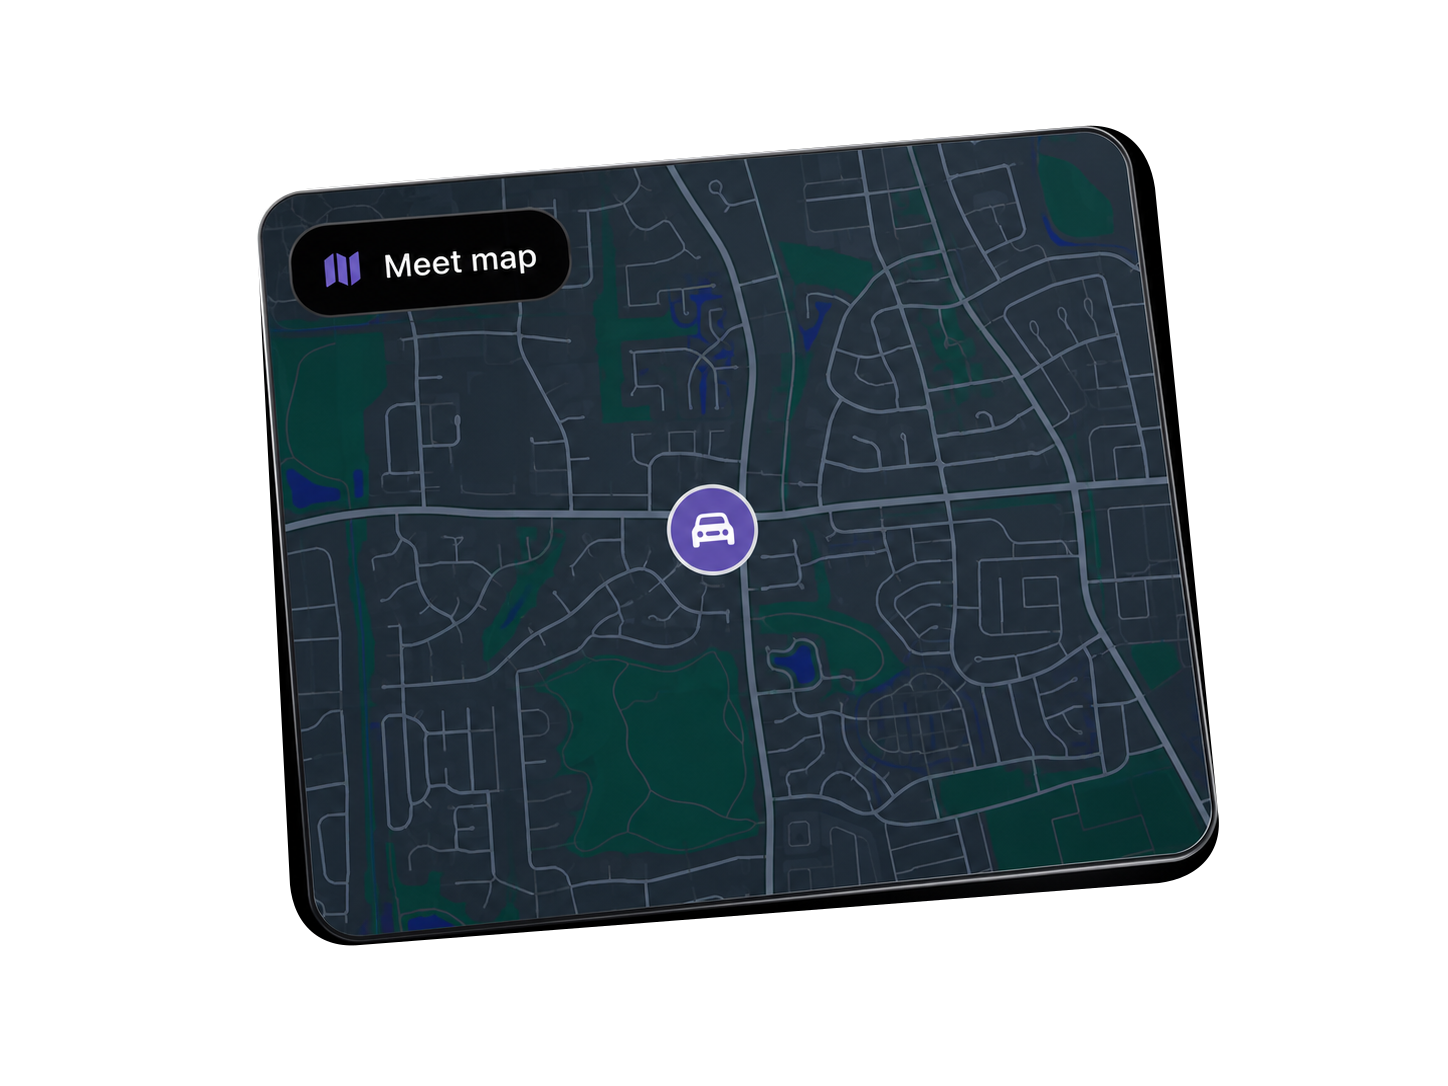
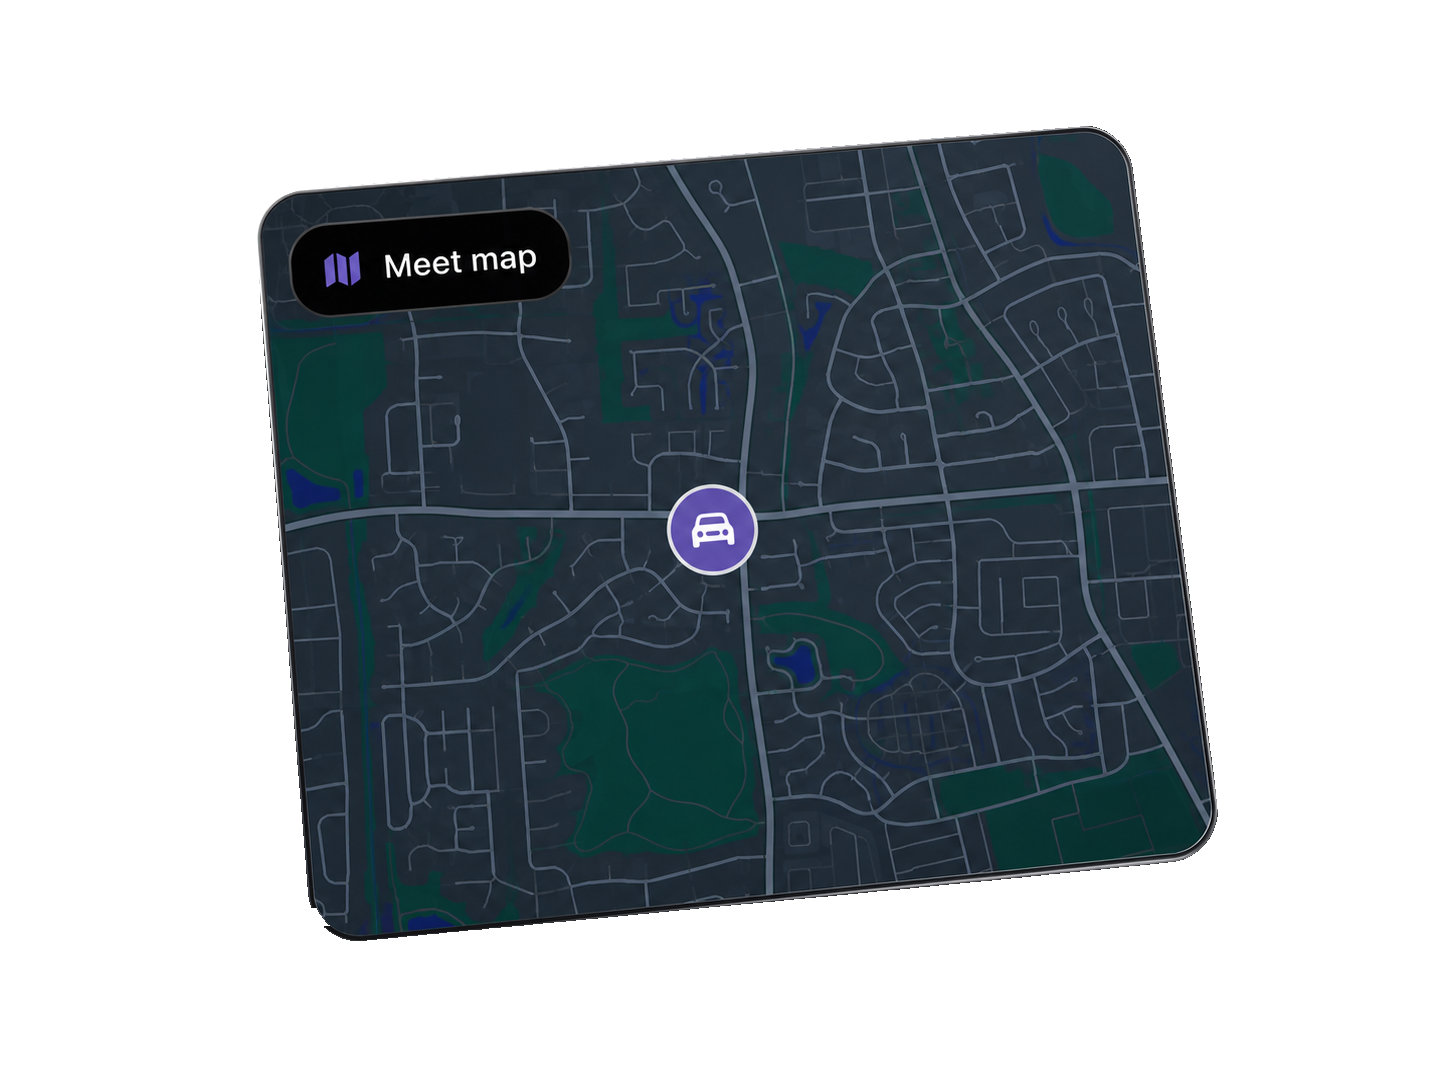
Polish homepage product showcase

diff --git a/index.html b/index.html
@@ -22,7 +22,7 @@
     <meta name="twitter:title" content="Idle | Car meets, finally organized.">
     <meta name="twitter:description" content="Discover meets. Host meets. Build your garage. Message connections. Stay connected to the local scene.">
     <meta name="twitter:image" content="https://idlemeets.com/assets/idle-social-preview-20260513a.png">
-    <script type="application/ld+json">
+    <script id="idle-app-schema" type="application/ld+json">
       {
         "@context": "https://schema.org",
         "@graph": [
@@ -84,7 +84,7 @@
             "aggregateRating": {
               "@type": "AggregateRating",
               "ratingValue": "5.0",
-              "ratingCount": 10,
+              "ratingCount": 12,
               "bestRating": "5",
               "worstRating": "1"
             }
@@ -132,20 +132,24 @@
         <div class="product-stage" data-product-stage data-active-card="meet" aria-label="Interactive previews of Idle's meet, map, and garage experience">
           <div class="product-stage-glow" aria-hidden="true"></div>
           <button class="product-fragment product-fragment-map" type="button" data-product-fragment data-product-card="map" data-card-label="Meet map" data-depth="0.52" aria-label="Show the Meet map preview" aria-pressed="false">
-            <img src="assets/product-showcase/idle-meet-map-demo.png?v=20260710c" alt="" width="1448" height="1086" decoding="async">
+            <img src="assets/product-showcase/idle-meet-map-demo.png?v=20260710e" alt="" width="1448" height="1086" decoding="async">
           </button>
           <button class="product-fragment product-fragment-meet" type="button" data-product-fragment data-product-card="meet" data-card-label="Night Meet" data-depth="1" aria-label="Show the Night Meet preview" aria-pressed="true">
             <img src="assets/product-showcase/idle-meet-card-demo.png?v=20260710c" alt="" width="1536" height="1024" fetchpriority="high" decoding="async">
           </button>
           <button class="product-fragment product-fragment-profile" type="button" data-product-fragment data-product-card="profile" data-card-label="Garage profile" data-depth="0.78" aria-label="Show the garage profile preview" aria-pressed="false">
-            <img src="assets/product-showcase/idle-profile-demo.png?v=20260710c" alt="" width="1748" height="900" decoding="async">
+            <img src="assets/product-showcase/idle-profile-demo-black-badge.png?v=20260710a" alt="" width="1748" height="900" decoding="async">
           </button>
           <p class="sr-only" data-product-status aria-live="polite">Night Meet preview selected.</p>
         </div>
       </section>
 
       <section class="site-shell home-proof-band" aria-label="Idle app details" data-reveal>
-        <p class="rating-note">Rated 5.0 on the App Store from 10 ratings.</p>
+        <p class="rating-note" data-rating-summary>
+          Rated <span data-rating-value>5.0</span> on the App Store from
+          <span data-rating-count>12</span> <span data-rating-noun>ratings</span>.
+          <span class="sr-only" aria-live="polite" data-rating-status></span>
+        </p>
         <p class="hero-note">Built for iPhone. Designed for meets, garages, groups, messages, and real local connections. Looking to <a class="contact-link" href="car-meets/">find car meets</a> or compare a <a class="contact-link" href="car-meet-app/">car meet app</a>? See how Idle works.</p>
       </section>
 
@@ -169,7 +173,7 @@
             <div class="discover-stage" data-discover-stage aria-label="Idle meet map and Night Meet previews">
               <div class="discover-stage-glow" aria-hidden="true"></div>
               <div class="discover-fragment discover-fragment-map" data-discover-fragment data-depth="0.55" aria-hidden="true">
-                <img src="assets/product-showcase/idle-meet-map-demo.png?v=20260710d" alt="" width="1448" height="1086" loading="lazy" decoding="async">
+                <img src="assets/product-showcase/idle-meet-map-demo.png?v=20260710e" alt="" width="1448" height="1086" loading="lazy" decoding="async">
               </div>
               <div class="discover-fragment discover-fragment-meet" data-discover-fragment data-depth="1" aria-hidden="true">
                 <img src="assets/product-showcase/idle-meet-card-demo.png?v=20260710d" alt="" width="1536" height="1024" loading="lazy" decoding="async">
@@ -266,6 +270,7 @@
         </nav>
       </div>
     </footer>
+    <script src="app-store-rating.js?v=20260710a" defer></script>
     <script src="script.js?v=20260710c" defer></script>
   </body>
 </html>

diff --git a/app-store-rating.js b/app-store-rating.js
@@ -1,0 +1,117 @@
+(() => {
+  const APP_ID = "6762639080";
+  const CACHE_KEY = "idle-app-store-rating-v1";
+  const CACHE_MAX_AGE = 6 * 60 * 60 * 1000;
+  const CALLBACK_NAME = "__idleAppStoreLookup";
+  const FALLBACK_RATING = 5;
+  const FALLBACK_COUNT = 12;
+
+  const readCache = () => {
+    try {
+      const cached = JSON.parse(localStorage.getItem(CACHE_KEY));
+      if (!cached || !Number.isFinite(cached.rating) || !Number.isFinite(cached.count)) return null;
+      return cached;
+    } catch {
+      return null;
+    }
+  };
+
+  const writeCache = (rating, count) => {
+    try {
+      localStorage.setItem(CACHE_KEY, JSON.stringify({ rating, count, savedAt: Date.now() }));
+    } catch {
+      // The page still renders the live result when storage is unavailable.
+    }
+  };
+
+  const updateSchema = (rating, count) => {
+    const schema = document.querySelector("#idle-app-schema");
+    if (!schema) return;
+
+    try {
+      const data = JSON.parse(schema.textContent);
+      const application = data["@type"] === "MobileApplication"
+        ? data
+        : data["@graph"]?.find((entry) => entry["@type"] === "MobileApplication");
+
+      if (!application) return;
+
+      application.aggregateRating = {
+        "@type": "AggregateRating",
+        ratingValue: rating.toFixed(1),
+        ratingCount: count,
+        bestRating: "5",
+        worstRating: "1"
+      };
+      schema.textContent = JSON.stringify(data);
+    } catch {
+      // Keep the server-rendered structured data when it cannot be parsed.
+    }
+  };
+
+  const renderRating = (rating, count, source = "fallback") => {
+    const safeRating = Number.isFinite(rating) ? Math.max(0, Math.min(5, rating)) : FALLBACK_RATING;
+    const safeCount = Number.isFinite(count) && count >= 0 ? Math.round(count) : FALLBACK_COUNT;
+    const ratingText = safeRating.toFixed(1);
+    const countText = new Intl.NumberFormat("en-US").format(safeCount);
+    const noun = safeCount === 1 ? "rating" : "ratings";
+    const filledStars = Math.max(0, Math.min(5, Math.round(safeRating)));
+
+    document.querySelectorAll("[data-rating-value]").forEach((node) => { node.textContent = ratingText; });
+    document.querySelectorAll("[data-rating-count]").forEach((node) => { node.textContent = countText; });
+    document.querySelectorAll("[data-rating-noun]").forEach((node) => { node.textContent = noun; });
+    document.querySelectorAll("[data-rating-stars]").forEach((node) => {
+      node.textContent = `${"★".repeat(filledStars)}${"☆".repeat(5 - filledStars)}`;
+    });
+
+    const proofLink = document.querySelector("[data-app-store-proof]");
+    if (proofLink) {
+      proofLink.setAttribute(
+        "aria-label",
+        `View Idle: Car Meets on the App Store. Rated ${ratingText} from ${countText} ${noun}.`
+      );
+    }
+
+    document.querySelectorAll("[data-rating-status]").forEach((status) => {
+      if (source === "live") {
+        status.textContent = `App Store rating updated: ${ratingText} from ${countText} ${noun}.`;
+      }
+    });
+
+    updateSchema(safeRating, safeCount);
+  };
+
+  const cached = readCache();
+  if (cached) renderRating(cached.rating, cached.count, "cache");
+
+  if (cached && Date.now() - cached.savedAt < CACHE_MAX_AGE) return;
+
+  let lookupScript;
+  let timeout;
+
+  const cleanupLookup = () => {
+    window.clearTimeout(timeout);
+    lookupScript?.remove();
+    delete window[CALLBACK_NAME];
+  };
+
+  window[CALLBACK_NAME] = (payload) => {
+    const app = payload?.results?.[0];
+    const rating = Number(app?.averageUserRating);
+    const count = Number(app?.userRatingCount);
+
+    if (Number.isFinite(rating) && Number.isFinite(count) && count >= 0) {
+      renderRating(rating, count, "live");
+      writeCache(rating, count);
+    }
+
+    cleanupLookup();
+  };
+
+  lookupScript = document.createElement("script");
+  lookupScript.src = `https://itunes.apple.com/lookup?id=${APP_ID}&country=us&callback=${CALLBACK_NAME}`;
+  lookupScript.async = true;
+  lookupScript.onerror = cleanupLookup;
+  document.head.appendChild(lookupScript);
+  timeout = window.setTimeout(cleanupLookup, 7000);
+})();

diff --git a/download/download.js b/download/download.js
@@ -55,112 +55,4 @@
     reducedMotion.addEventListener("change", reset);
   }
 
-  const APP_ID = "6762639080";
-  const CACHE_KEY = "idle-app-store-rating-v1";
-  const CACHE_MAX_AGE = 6 * 60 * 60 * 1000;
-  const CALLBACK_NAME = "__idleAppStoreLookup";
-  const FALLBACK_RATING = 5;
-  const FALLBACK_COUNT = 10;
-
-  const readCache = () => {
-    try {
-      const cached = JSON.parse(localStorage.getItem(CACHE_KEY));
-      if (!cached || !Number.isFinite(cached.rating) || !Number.isFinite(cached.count)) return null;
-      return cached;
-    } catch {
-      return null;
-    }
-  };
-
-  const writeCache = (rating, count) => {
-    try {
-      localStorage.setItem(CACHE_KEY, JSON.stringify({ rating, count, savedAt: Date.now() }));
-    } catch {
-      // The page still renders the live result when storage is unavailable.
-    }
-  };
-
-  const updateSchema = (rating, count) => {
-    const schema = document.querySelector("#idle-app-schema");
-    if (!schema) return;
-
-    try {
-      const data = JSON.parse(schema.textContent);
-      data.aggregateRating = {
-        "@type": "AggregateRating",
-        ratingValue: rating.toFixed(1),
-        ratingCount: count,
-        bestRating: "5",
-        worstRating: "1"
-      };
-      schema.textContent = JSON.stringify(data);
-    } catch {
-      // Keep the server-rendered structured data when it cannot be parsed.
-    }
-  };
-
-  const renderRating = (rating, count, source = "fallback") => {
-    const safeRating = Number.isFinite(rating) ? Math.max(0, Math.min(5, rating)) : FALLBACK_RATING;
-    const safeCount = Number.isFinite(count) && count >= 0 ? Math.round(count) : FALLBACK_COUNT;
-    const ratingText = safeRating.toFixed(1);
-    const countText = new Intl.NumberFormat("en-US").format(safeCount);
-    const noun = safeCount === 1 ? "rating" : "ratings";
-    const filledStars = Math.max(0, Math.min(5, Math.round(safeRating)));
-
-    document.querySelectorAll("[data-rating-value]").forEach((node) => { node.textContent = ratingText; });
-    document.querySelectorAll("[data-rating-count]").forEach((node) => { node.textContent = countText; });
-    document.querySelectorAll("[data-rating-noun]").forEach((node) => { node.textContent = noun; });
-    document.querySelectorAll("[data-rating-stars]").forEach((node) => {
-      node.textContent = `${"★".repeat(filledStars)}${"☆".repeat(5 - filledStars)}`;
-    });
-
-    const proofLink = document.querySelector("[data-app-store-proof]");
-    if (proofLink) {
-      proofLink.setAttribute(
-        "aria-label",
-        `View Idle: Car Meets on the App Store. Rated ${ratingText} from ${countText} ${noun}.`
-      );
-    }
-
-    const status = document.querySelector("[data-rating-status]");
-    if (status && source === "live") {
-      status.textContent = `App Store rating updated: ${ratingText} from ${countText} ${noun}.`;
-    }
-
-    updateSchema(safeRating, safeCount);
-  };
-
-  const cached = readCache();
-  if (cached) renderRating(cached.rating, cached.count, "cache");
-
-  if (cached && Date.now() - cached.savedAt < CACHE_MAX_AGE) return;
-
-  let lookupScript;
-  let timeout;
-
-  const cleanupLookup = () => {
-    window.clearTimeout(timeout);
-    lookupScript?.remove();
-    delete window[CALLBACK_NAME];
-  };
-
-  window[CALLBACK_NAME] = (payload) => {
-    const app = payload?.results?.[0];
-    const rating = Number(app?.averageUserRating);
-    const count = Number(app?.userRatingCount);
-
-    if (Number.isFinite(rating) && Number.isFinite(count) && count >= 0) {
-      renderRating(rating, count, "live");
-      writeCache(rating, count);
-    }
-
-    cleanupLookup();
-  };
-
-  lookupScript = document.createElement("script");
-  lookupScript.src = `https://itunes.apple.com/lookup?id=${APP_ID}&country=us&callback=${CALLBACK_NAME}`;
-  lookupScript.async = true;
-  lookupScript.onerror = cleanupLookup;
-  document.head.appendChild(lookupScript);
-  timeout = window.setTimeout(cleanupLookup, 7000);
 })();

diff --git a/download/index.html b/download/index.html
@@ -69,7 +69,7 @@
         "aggregateRating": {
           "@type": "AggregateRating",
           "ratingValue": "5.0",
-          "ratingCount": 10,
+          "ratingCount": 12,
           "bestRating": "5",
           "worstRating": "1"
         }
@@ -132,7 +132,7 @@
           </div>
           <p class="rating-note" data-rating-summary>
             Rated <span data-rating-value>5.0</span> on the App Store from
-            <span data-rating-count>10</span> <span data-rating-noun>ratings</span>.
+            <span data-rating-count>12</span> <span data-rating-noun>ratings</span>.
           </p>
         </div>
 
@@ -140,7 +140,7 @@
           class="app-store-proof"
           href="https://apps.apple.com/us/app/idle-car-meets/id6762639080"
           rel="noopener"
-          aria-label="View Idle: Car Meets on the App Store. Rated 5.0 from 10 ratings."
+          aria-label="View Idle: Car Meets on the App Store. Rated 5.0 from 12 ratings."
           data-app-store-proof
           data-reveal
         >
@@ -171,7 +171,7 @@
               <span class="app-store-stars" data-rating-stars aria-hidden="true">★★★★★</span>
             </div>
             <p class="app-store-rating-count">
-              <span data-rating-count>10</span> <span data-rating-noun>ratings</span>
+              <span data-rating-count>12</span> <span data-rating-noun>ratings</span>
             </p>
           </article>
 
@@ -230,6 +230,7 @@
         </nav>
       </div>
     </footer>
-    <script src="download.js?v=20260710a" defer></script>
+    <script src="../app-store-rating.js?v=20260710a" defer></script>
+    <script src="download.js?v=20260710b" defer></script>
   </body>
 </html>

diff --git a/styles.css b/styles.css
@@ -509,6 +509,7 @@ p {
   --cycle-scale: 1;
   --card-opacity: 1;
   --card-brightness: 1;
+  --card-shadow: drop-shadow(0 20px 30px rgba(0, 0, 0, 0.28));
   --focus-shadow: drop-shadow(0 0 0 rgba(255, 255, 255, 0));
   appearance: none;
   position: absolute;
@@ -522,7 +523,7 @@ p {
   transform: translate3d(calc(var(--move-x) + var(--cycle-x)), calc(var(--move-y) + var(--cycle-y)), var(--cycle-z)) rotateX(calc(var(--tilt-x) + var(--cycle-tilt-x))) rotateY(calc(var(--tilt-y) + var(--cycle-tilt-y))) rotateZ(calc(var(--base-rotate) + var(--cycle-rotate))) scale(var(--fragment-scale)) scale(var(--cycle-scale));
   transform-style: preserve-3d;
   transform-origin: center;
-  filter: drop-shadow(0 20px 30px rgba(0, 0, 0, 0.28)) var(--focus-shadow) brightness(var(--card-brightness));
+  filter: var(--card-shadow) var(--focus-shadow) brightness(var(--card-brightness));
   transition: transform 620ms cubic-bezier(0.16, 1, 0.3, 1), filter 420ms ease, opacity 420ms ease;
   will-change: transform, opacity;
   overflow: visible;
@@ -543,6 +544,7 @@ p {
 
 .product-fragment-map {
   --base-rotate: 2.5deg;
+  --card-shadow: drop-shadow(0 0 0 rgba(0, 0, 0, 0));
   top: -7%;
   right: 9%;
   z-index: 1;
